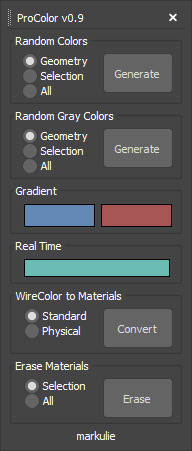
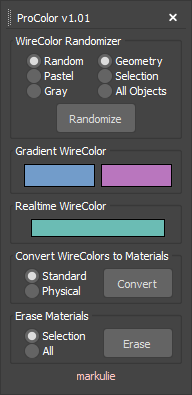
u

diff --git a/README.md b/README.md
@@ -6,7 +6,7 @@
 Advanced Wirecolor Manager for Autodesk 3ds Max by Markulie<br>
 
 <p align="center">
-  <img width="192" height="451" src="https://raw.githubusercontent.com/markulie/ProColor/master/ProColor_Window.png">
+  <img width="192" height="395" src="https://raw.githubusercontent.com/markulie/ProColor/master/ProColor_Window.png">
 </p>
 <a href="https://www.youtube.com/watch?v=j5dhfQ13YUk" target="-blank">Tutorial</a> (Italian) by Marcello Pattarin
 
